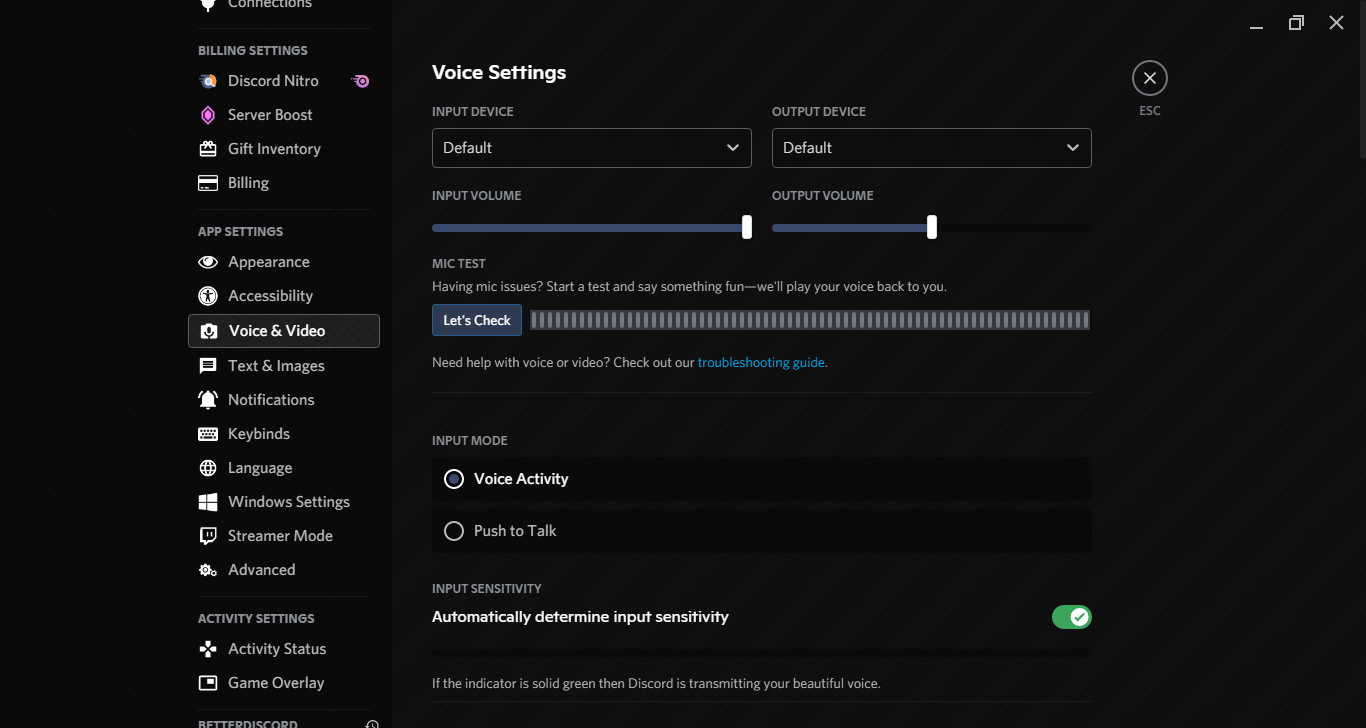
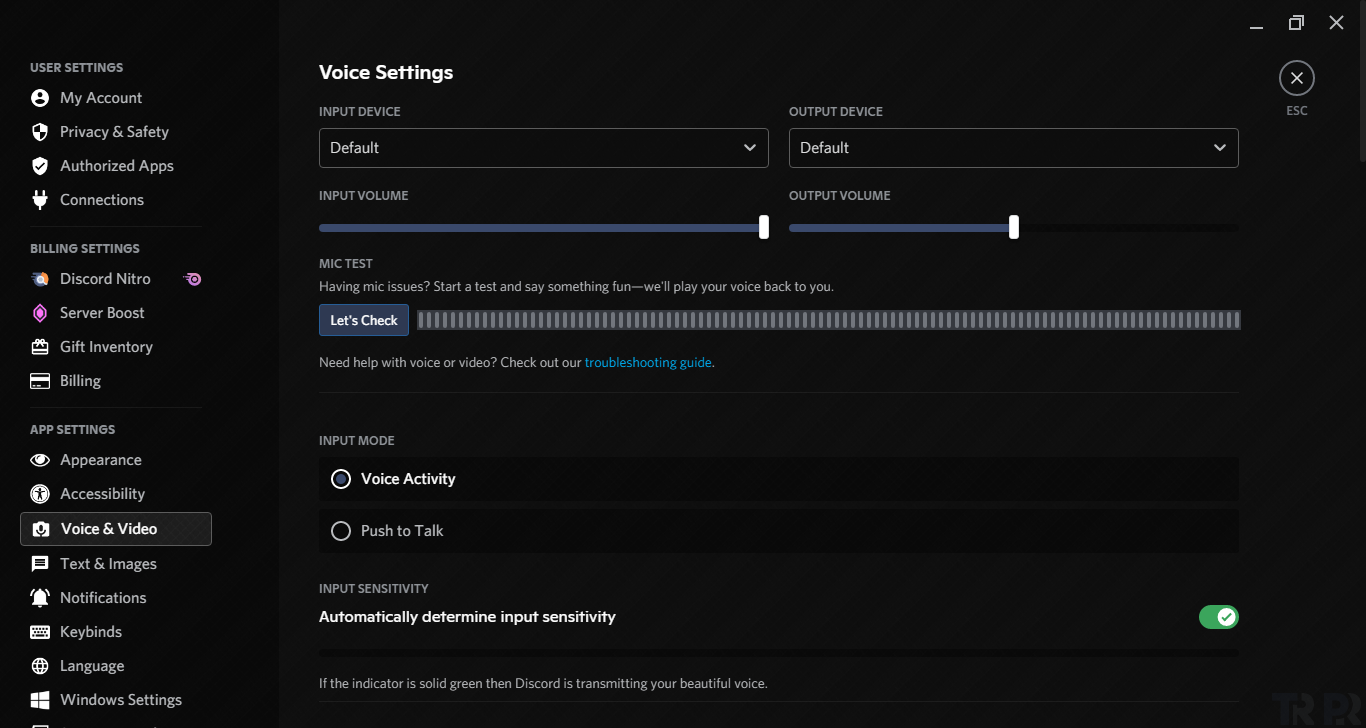
Aligned the Settings Sidebar to the Left

diff --git a/discorddark.theme.css b/discorddark.theme.css
@@ -362,3 +362,14 @@ h2.name-3l27Hl, h2.membersGroup-v9BXpm {
   color: var(--selection-text)!important;
   background: var(--selection-background)!important;
 }
+/* Align Settings Sidebar to the Left */
+.sidebar-CFHs9e {
+	margin-right: auto;
+	margin-left: 0
+}
+.sidebarRegion-VFTUkN {
+	flex: 1 0 0px;
+}
+.contentColumn-2hrIYH {
+	max-width: 1000px;
+}
